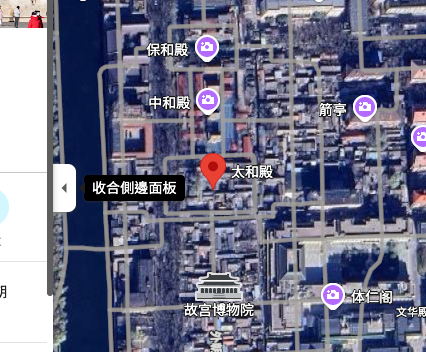
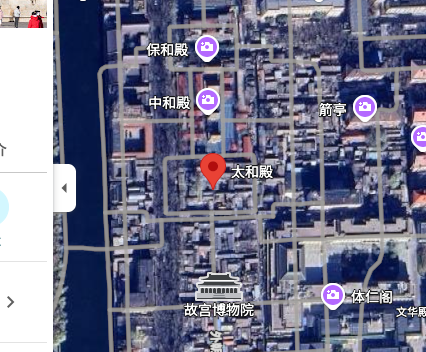
docs: force map basemap before WGS README screenshots

diff --git a/scripts/capture-readme-shots.js b/scripts/capture-readme-shots.js
@@ -88,10 +88,12 @@ const WGS_MAP =
   "https://www.google.com/maps/place/39%C2%B054'57.0%22N+116%C2%B023'26.0%22E/@39.9158333,116.3905556,17z/data=!4m4!3m3!8m2!3d39.9158333!4d116.3905556";
 
 const SHOTS = [
-  { label: "without · 太和殿 · satellite", out: "taihedian-sat-without.png", url: TAIHEDIAN_SAT, kind: "native", extension: false },
-  { label: "without · WGS · map", out: "wgs-map-without.png", url: WGS_MAP, kind: "native", extension: false },
-  { label: "with · 太和殿 · satellite", out: "taihedian-sat-with.png", url: TAIHEDIAN_SAT, kind: "satellite", extension: true },
-  { label: "with · WGS · map", out: "wgs-map-with.png", url: WGS_MAP, kind: "wgs-map", extension: true }
+  // Capture map shots before satellite when possible — Maps remembers basemap
+  // preference across navigations in the same profile.
+  { label: "without · WGS · map", out: "wgs-map-without.png", url: WGS_MAP, kind: "native", extension: false, basemap: "map" },
+  { label: "without · 太和殿 · satellite", out: "taihedian-sat-without.png", url: TAIHEDIAN_SAT, kind: "native", extension: false, basemap: "satellite" },
+  { label: "with · WGS · map", out: "wgs-map-with.png", url: WGS_MAP, kind: "wgs-map", extension: true, basemap: "map" },
+  { label: "with · 太和殿 · satellite", out: "taihedian-sat-with.png", url: TAIHEDIAN_SAT, kind: "satellite", extension: true, basemap: "satellite" }
 ];
 
 async function dismissConsent(page) {
@@ -119,6 +121,70 @@ async function waitForMapCanvas(page) {
     return !!canvas && canvas.getBoundingClientRect().width > 500;
   }, { timeout: 120000 });
   await page.waitForTimeout(3000);
+}
+
+async function pageShowsSatellite(page) {
+  return page.evaluate(() => {
+    const href = location.href;
+    if (/!3m\d+!1e3/i.test(href) || /!1e3/.test(href)) return true;
+    const layer = document.getElementById("gcj02-aligner-root")?.dataset.layer || "";
+    if (layer === "satellite") return true;
+    const blob = document.body?.innerText || "";
+    if (/Imagery\s*©[^©\n]{0,120}(CNES|Airbus|Maxar)/i.test(blob)) return true;
+    if (/©\d{4}\s*(CNES|Airbus|Maxar)/i.test(blob)) return true;
+    return false;
+  });
+}
+
+async function switchBasemapViaLayers(page, target) {
+  const wantSat = target === "satellite";
+  const names = wantSat
+    ? ["Satellite", "卫星", "衛星", "卫星图", "衛星圖"]
+    : ["Default", "Map", "Road map", "Roadmap", "地图", "地圖", "街道", "預設", "预设", "互動式地圖", "互动地图"];
+  const btn = page.getByRole("button", { name: /^(layers|圖層|图层|map type|地圖類型|地图类型)$/i }).first();
+  const layers = (await btn.isVisible({ timeout: 2000 }).catch(() => false))
+    ? btn
+    : page.locator(
+      '[aria-label="Layers"], [aria-label="Map type"], [aria-label="圖層"], [aria-label="图层"], [aria-label="地圖類型"], [aria-label="地图类型"]'
+    ).first();
+  if (!(await layers.isVisible({ timeout: 4000 }).catch(() => false))) {
+    throw new Error(`Layers control not found for basemap=${target}`);
+  }
+  await layers.click({ timeout: 8000 });
+  await page.waitForTimeout(500);
+  let clicked = false;
+  for (const name of names) {
+    const item = page.getByRole("menuitemradio", { name })
+      .or(page.getByRole("menuitem", { name }))
+      .or(page.getByRole("button", { name }))
+      .or(page.getByText(name, { exact: true }));
+    if (await item.first().isVisible({ timeout: 1200 }).catch(() => false)) {
+      await item.first().click();
+      clicked = true;
+      break;
+    }
+  }
+  await page.keyboard.press("Escape").catch(() => {});
+  await page.waitForTimeout(1800);
+  if (!clicked) throw new Error(`Basemap menu item not found for ${target}`);
+}
+
+async function ensureBasemap(page, want) {
+  const sat = await pageShowsSatellite(page);
+  if (want === "satellite" && sat) return;
+  if (want === "map" && !sat) return;
+  await switchBasemapViaLayers(page, want);
+  const after = await pageShowsSatellite(page);
+  if (want === "map" && after) {
+    throw new Error("Still on satellite after switching to map basemap");
+  }
+  if (want === "satellite" && !after) {
+    // URL may lag; imagery copyright is the stronger signal.
+    const blob = await page.evaluate(() => document.body?.innerText || "");
+    if (!/CNES|Airbus|Maxar/i.test(blob) && !/!1e3/.test(page.url())) {
+      throw new Error("Still not on satellite after switching basemap");
+    }
+  }
 }
 
 async function waitForExtensionReady(page, kind) {
@@ -207,14 +273,23 @@ async function captureShot(page, shot) {
     await dismissConsent(page);
   }
   await waitForMapCanvas(page);
+  if (shot.basemap) await ensureBasemap(page, shot.basemap);
   if (shot.extension) {
     await waitForExtensionReady(page, shot.kind);
+    // Extension WGS-map mode must stay on vector map (not satellite overlay).
+    if (shot.basemap === "map") await ensureBasemap(page, "map");
   } else {
     await page.waitForTimeout(2000);
   }
   await page.addStyleTag({
     content: "#gcj02-aligner-status{opacity:0.85!important}.dismissible-content,.Q6EWfb{display:none!important}"
   }).catch(() => {});
+  if (shot.basemap === "map" && await pageShowsSatellite(page)) {
+    throw new Error(`${shot.label}: expected map basemap, still showing satellite`);
+  }
+  if (shot.basemap === "satellite" && !(await pageShowsSatellite(page))) {
+    throw new Error(`${shot.label}: expected satellite basemap`);
+  }
   const pin = await findPinTip(page, shot.url);
   if (!pin) throw new Error(`pin not found: ${shot.label}`);
   const clip = clipAroundPin(pin, page.viewportSize());
